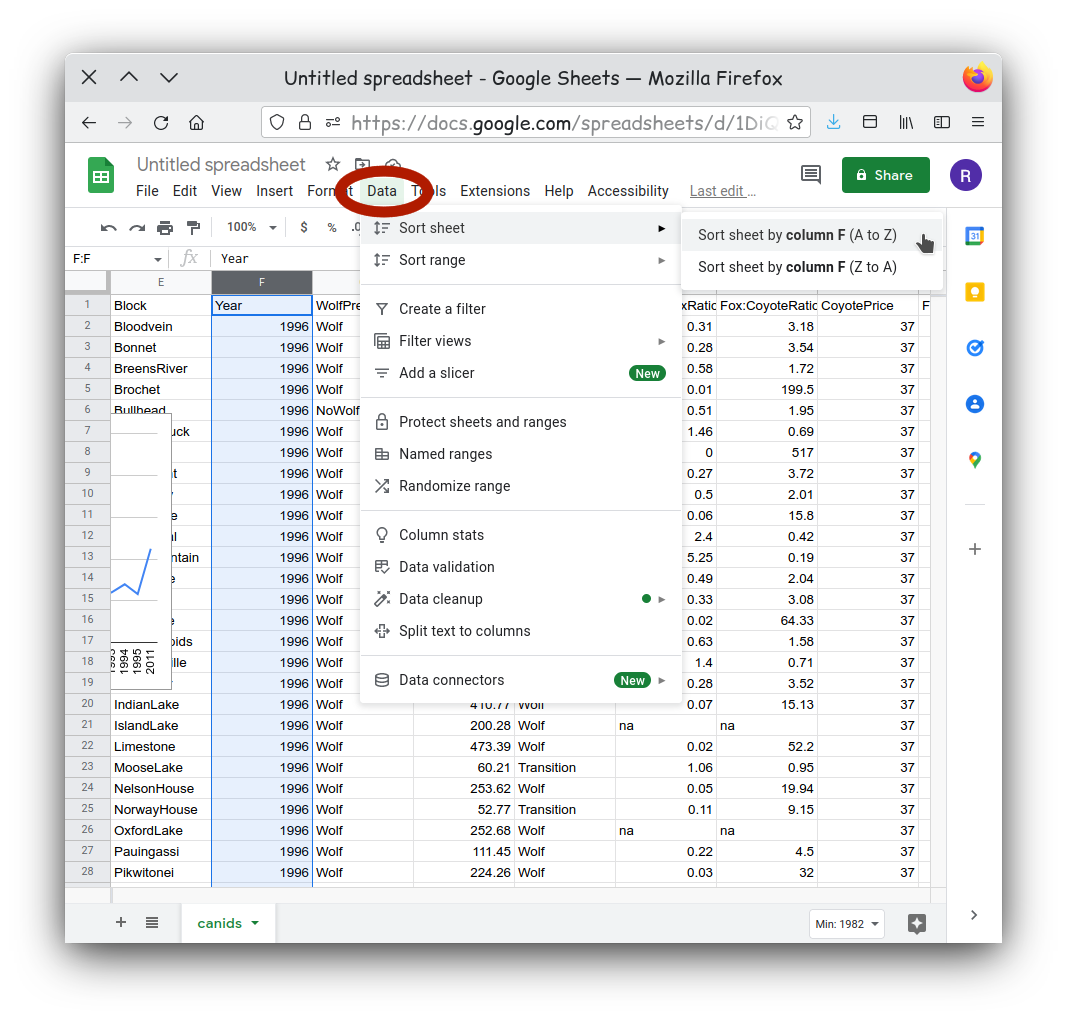
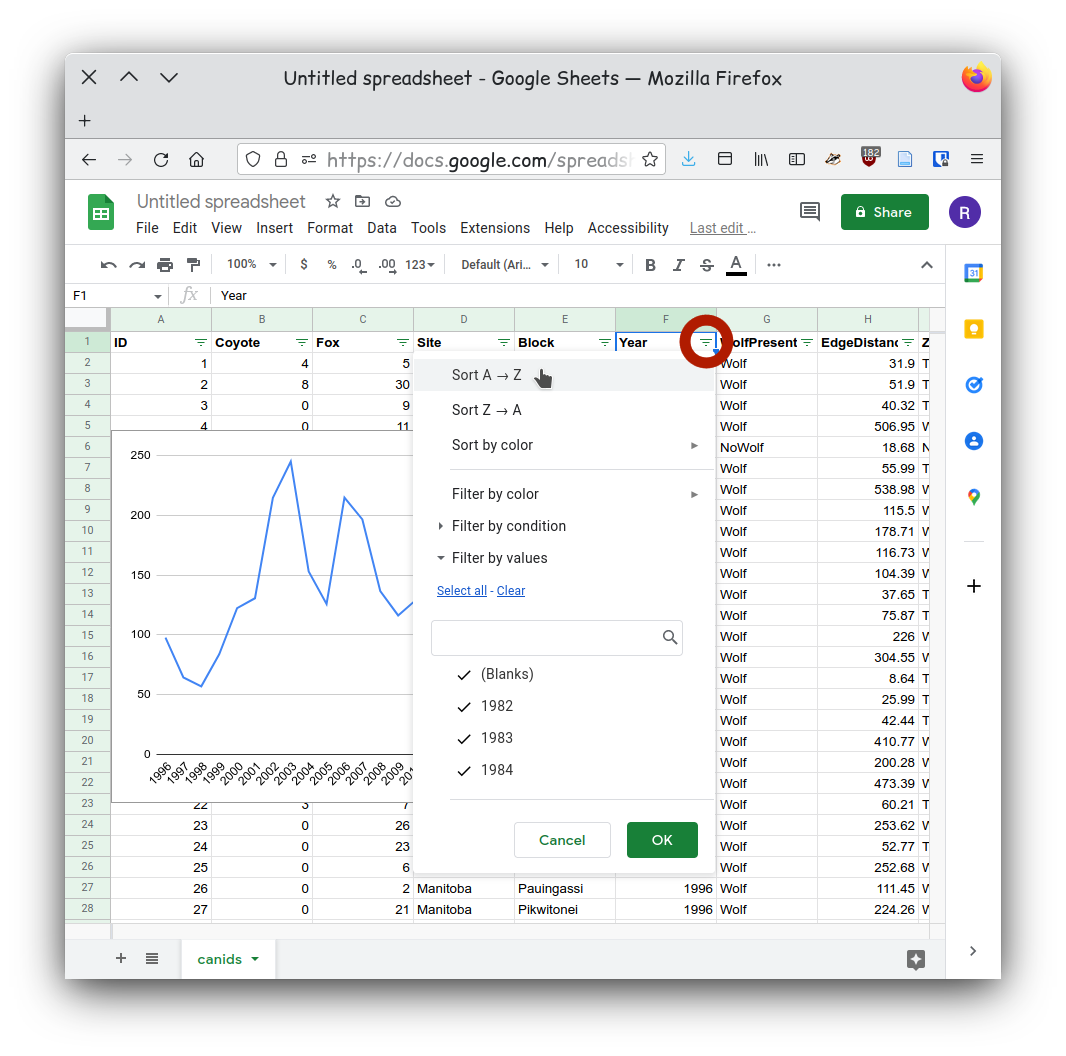
differences for PR #21

diff --git a/03-communicating-the-message.md b/03-communicating-the-message.md
@@ -94,26 +94,28 @@ We need to pick our first data series. This will become our y-axis data. Lets pi
 
 ![Figure 3.8](fig/03-new_chart_coyote2.png){alt='new chart type coyote'}
 
-We can now specify the data for our x -axis. Lets start with the x-axis. Click on the field below the X-axis heading in the chart editor, and again this should open a menu with a search field on the right with a rectangular grid icon on the left. Once the Select data range menu is open. Now you can click the top of the Column named year in your table to set year as our x-axis. 
+We can now specify the data for our x -axis. Google sheets will not let you set the x-axis directly from your data table. This is likely a bug, but we can work around it by adding our x-axis data as a Series first. Click on the Add Series field below our Coyote entry under the Series heading. This should open a menu with a search field on the right with a rectangular grid icon on the left. Once the Select data range menu is open. Now you can click the top of the Column named year in your table to set year as our second data series. Now click on the x-axis field and you will see you have two options. The window may not automatically list our columns by name, just remember that our year data is in column F and select the appropriate entry (likely `F1:F4681`). Go ahead and click it to set you x-axis. You will need to remove year from the data series list by clicking the three dot icon next to it's Series entry and selecting remove.
 
-![Figure 3.9](fig/03-new_chart_year.png){alt='new chart type year'}
-
-Sometimes the chart editor will automatically set this as a data series instead of your x-axis. This is ok, if you click on the x-axis field again you will see year is now an option. Go ahead and click it to set you x-axis. You will need to remove year from the data series list by clicking the three dot icon and selecting remove.
-
-![Figure 3.10](fig/03-new_chart_year_remove.png){alt='new chart type year remove'}
+![Figure 3.9](fig/03-new_chart_year.png){alt='new chart type year remove'}
 
 Something doesn't look right. Our line chart seems to be jumping back and forth at each year. If you look at the table you will notice that for every year value we have multiple rows. By default the chart is plotting every row as an independent point, so we have multiple points at every year. Is that  really what we want to show? It might be better to show some aggregate value for each year. That would mean a simpler chart and a simpler message. Lets try plotting the average (arithmetic mean) counts of coyotes instead. Click the agregate checkbox and a new dropdown will appear. Select average to plot our mean counts.
 
-![Figure 3.11](fig/03-new_chart_average.png){alt='new chart type year remove'}
+![Figure 3.10](fig/03-new_chart_average.png){alt='new chart type year average'}
 
 That looks better, but can you see another issue? Look closely.
-![Figure 3.12](fig/03-new_chart_error.png){alt='new chart type error'}
+![Figure 3.11](fig/03-new_chart_error.png){alt='new chart type error'}
 
-Our years are not in order! The years are plotted in the order they appeared on our table. One simple way to solve this is to reorder our table. Select the column year. Now from the data menu select sort sheet -> Sort sheet by column F (A-Z). 
+Our years are not in order! The years are plotted in the order they appeared on our table. One simple way to solve this is to reorder our table. There are a few different tools you can use, but creating a filter for you table has a few advantages. First it automatically sets your first row as headings, this means when you sort your table the headings always stay at the top. Secondly we can order the table on the fly by simply clicking on a heading. To set this up select the entire table first. This can either be done using the keyboard shortcut of `ctrl-a` or by clicking on the upper leftmost square in your table This is the rectange above the row `1` label and to the left of the column `A` label. Next select the `Create a Filter` entry in `Data` menu. 
+
+![Figure 3.12](fig/03-new_chart_select.png){alt='new chart type select all'}
+
+You should now see downward facing triangles on each column heading. Click on the icons next to the year column and then select the Select the column year. Now from the data menu select sort sheet -> Sort sheet by column F (A-Z). 
 
 ![Figure 3.13](fig/03-new_chart_sort.png){alt='new chart type sort'}
 
 Now that our data is sorted our chart should show our data in chronological order.
+
+![Figure 3.14](fig/03-new_chart_final.png){alt='new chart type final'}
 
 :::: keypoints 
 
